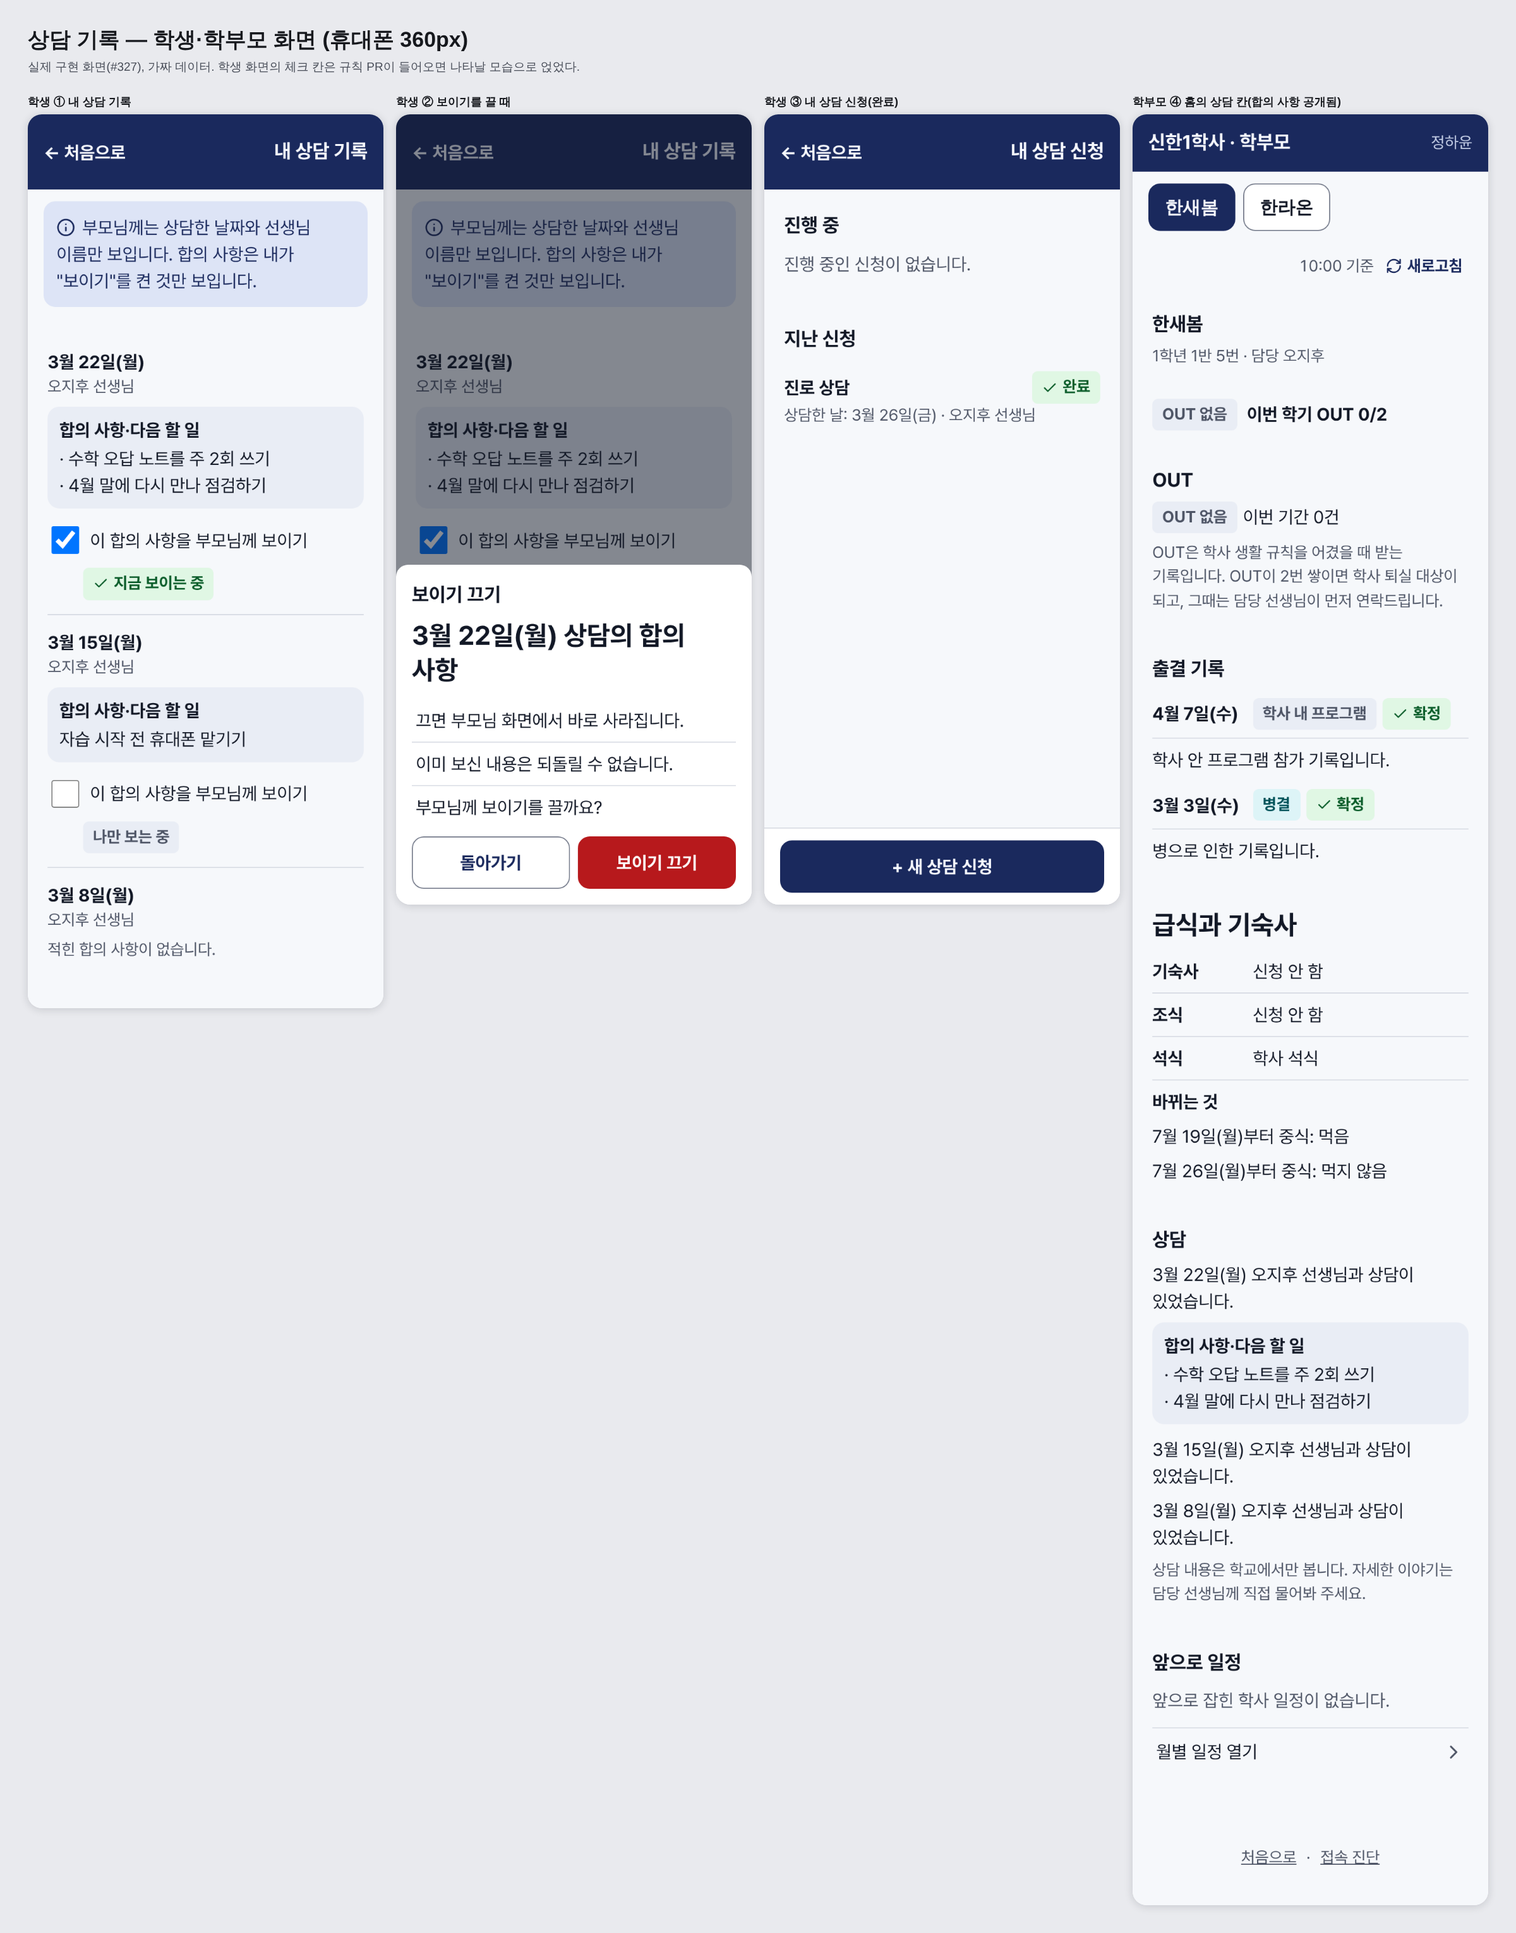
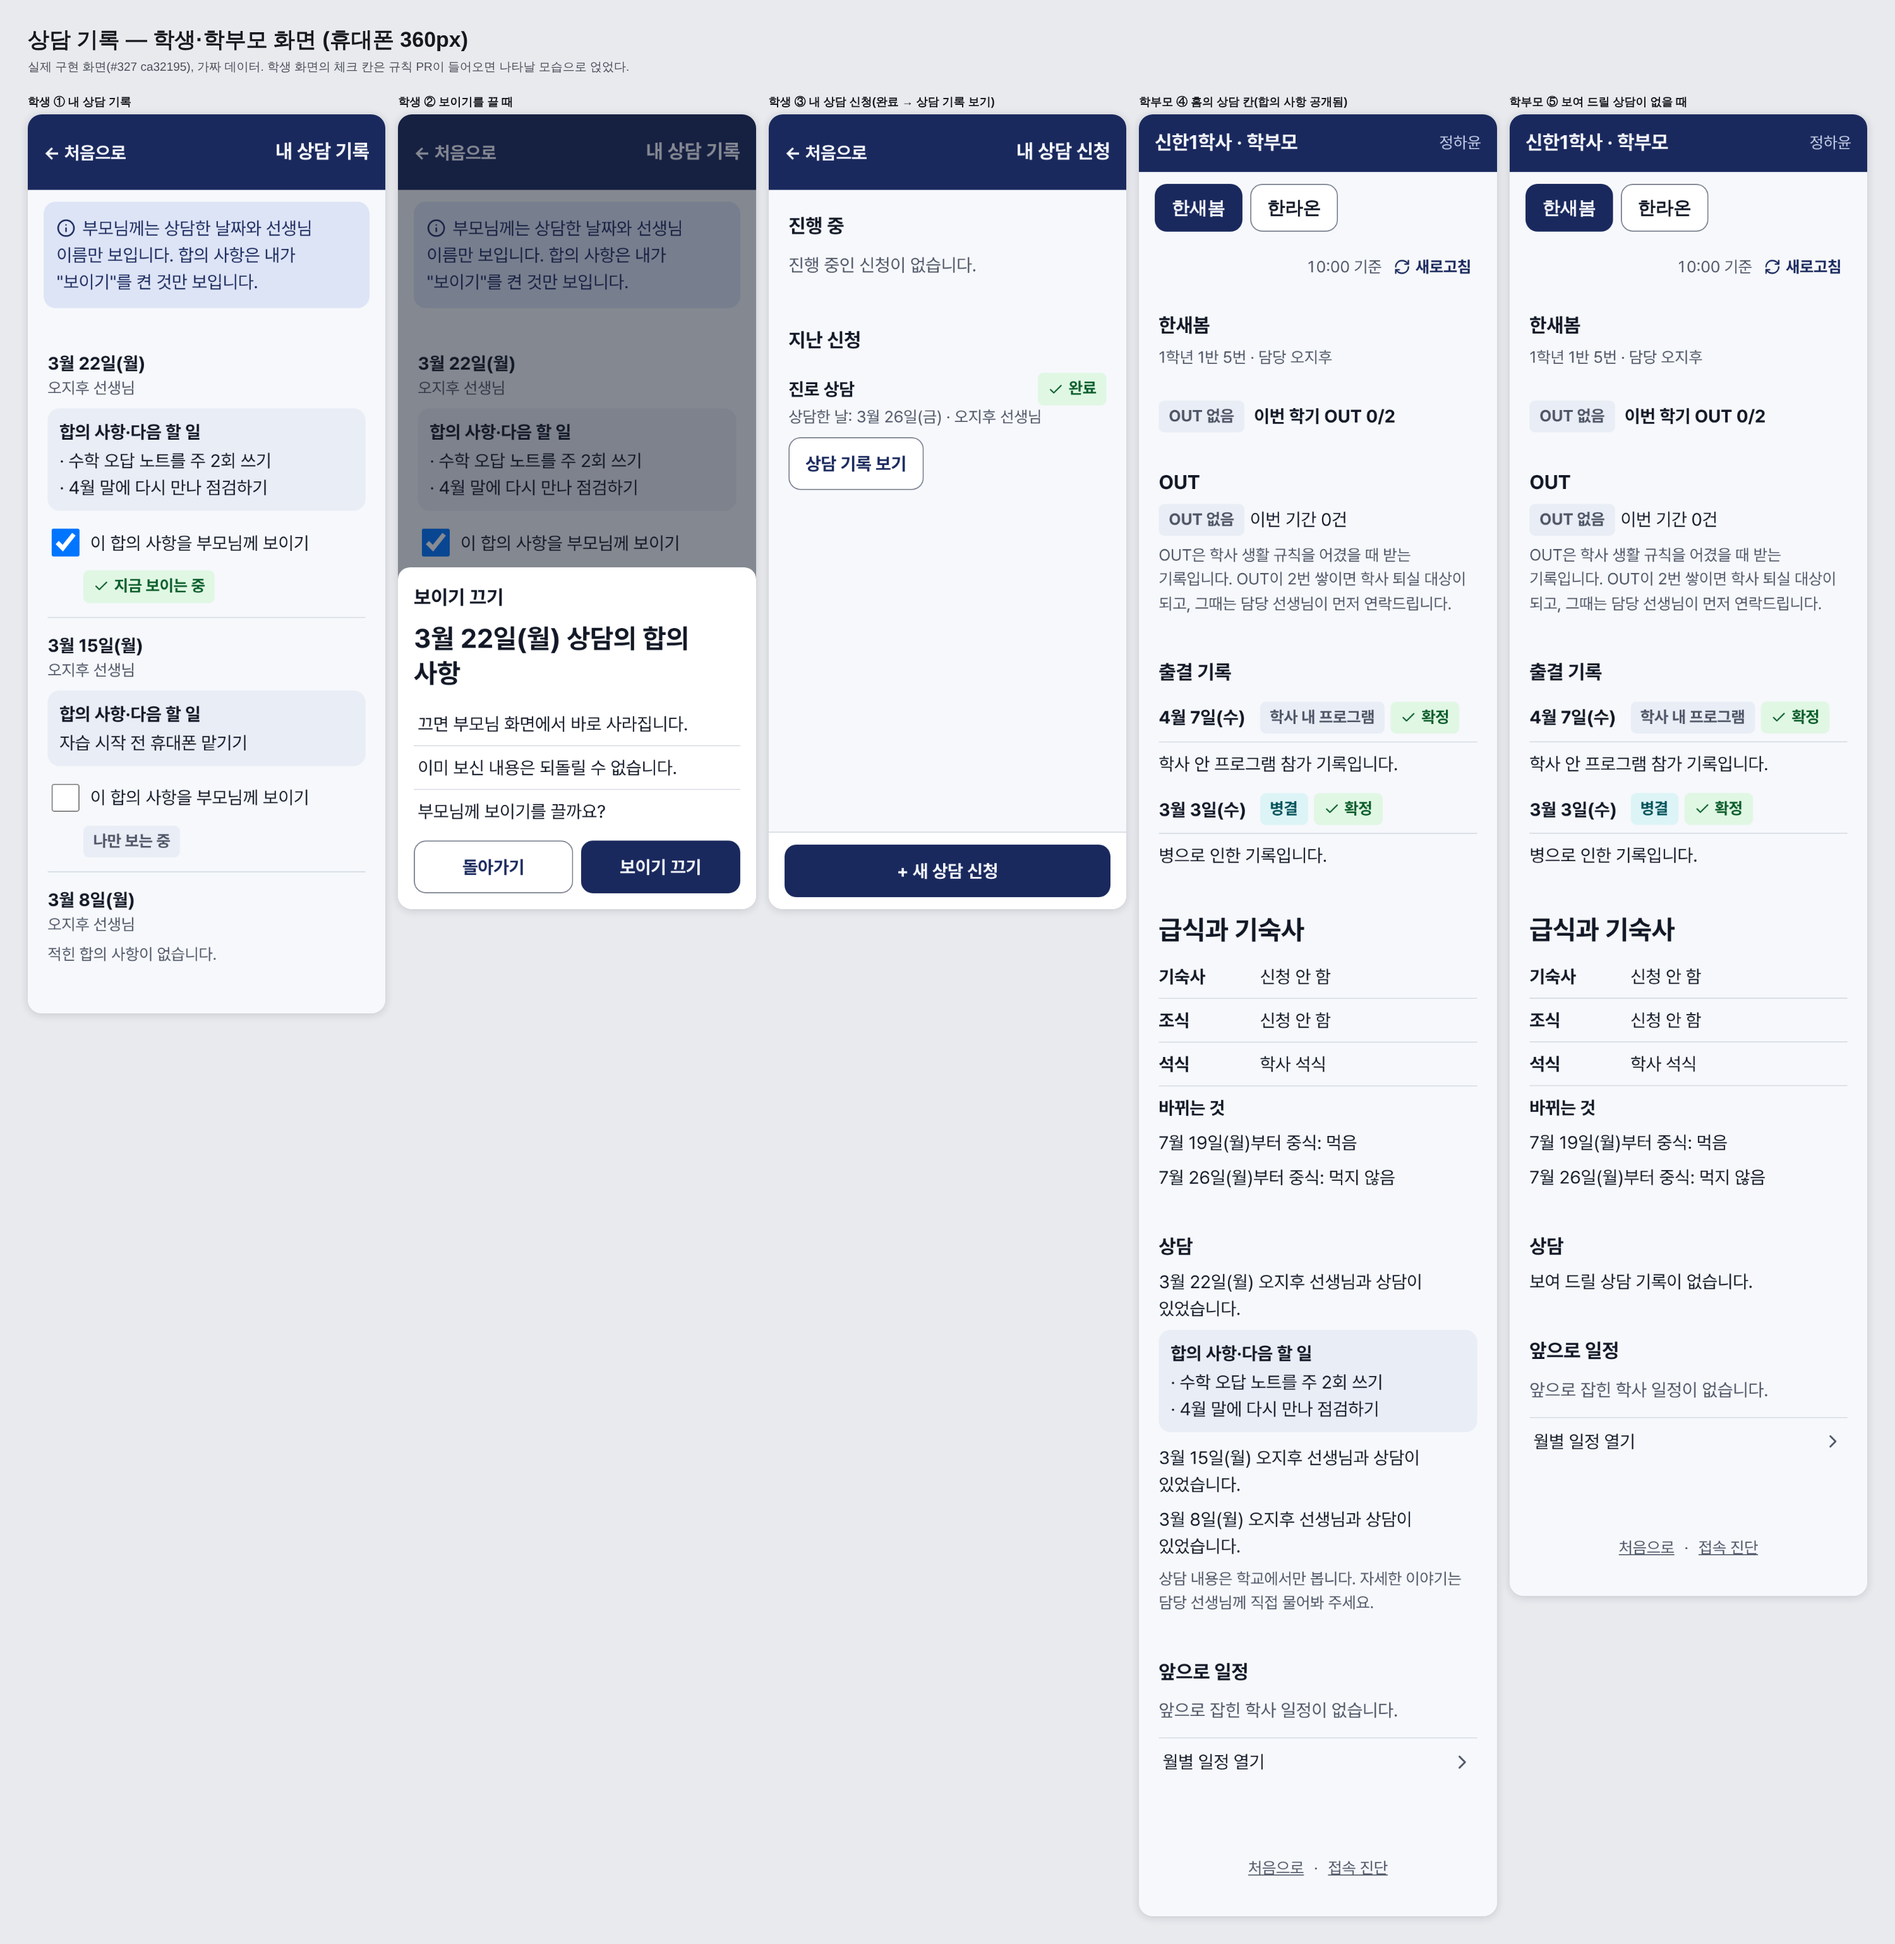
C49-B 상담일지 다시 본 결과(구현 화면 사진 2장 갱신, 고쳐짐·보류 표)
Claude-Session: https://claude.ai/code/session_01By8YaWkfK9cbtnKxFetPty

diff --git a/docs/design/stage6/review/c49b.md b/docs/design/stage6/review/c49b.md
@@ -61,3 +61,27 @@
 - 규칙 PR #323이 들어온 뒤의 진짜 체크 칸(응답에 얹어 본 모습만 보았다).
 - 일지를 취소한 뒤 다시 잇기(relink), 일지 고치기에서의 합의 사항.
 - 학사를 나간 학생의 "고칠 수 없습니다" 화면, 글자 150%·기기 9종.
+
+## 다시 본 결과 (커밋 ca32195, 2026-11-28)
+
+코딩B가 위 목록을 반영한 뒤 구현 화면만 다시 찍었다. 맨 위 "선생님께 보여 드릴 사진" 2장을 이 커밋의 화면으로 바꿨다. **남은 "반드시"가 없다 — 병합해도 된다.**
+
+| # | 무엇 | 결과 |
+| --- | --- | --- |
+| 1 | 두 글 칸이 누구에게 보이는지 | **고쳐짐.** 카드 제목 "상담 내용 (교사만)" + 회색 "교사만 봄", "합의 사항·다음 할 일 (학생에게 보임)" + 주의색 "학생에게 보임". 합의 사항에 글이 있으면 저장 전 확인 시트("합의 사항 48자가 학생에게 보입니다. / 저장한 뒤에는 고칠 수 없고, 고치려면 취소하고 다시 써야 합니다."), 비어 있으면 시트 없이 저장. 고치기 시트에도 "합의 사항 n자는 학생에게 보입니다." 한 문장 |
+| 2 | 참고한 진로 프로필의 내용 요약 | **보류.** C50이 들어온 뒤 후속으로(진로 희망·목표 진학 두 줄 + [진로 프로필 열기]) |
+| 3 | 학부모 상담 빈 상태 | **고쳐짐.** "보여 드릴 상담 기록이 없습니다." 빈 상태에서는 아래 안내 줄이 없다 |
+| 4 | 학생 보이기 체크 칸 | **일부 고쳐짐, 나머지 보류.** [보이기 끄기]가 빨강에서 감색으로 바뀌어 진로 프로필과 같다. `UI.shareCheck`로 바꾸는 것은 C50 병합 뒤 |
+| 5 | "내 상담 신청" 완료 줄 | **고쳐짐.** [상담 기록 보기] 단추 |
+| 6 | 저장 뒤 경고 알림이 단추를 가림 | **고쳐짐.** 알림 대신 목록 위 주의 상자 한 줄로 나온다 |
+| 7 | 빈 "내 상담 기록"의 안내 | **고쳐짐.** 기록이 없으면 안내가 나오지 않는다 |
+
+### 남은 작은 것 (병합을 막지 않음)
+
+| 무엇이 | 제안 |
+| --- | --- |
+| 저장 확인 시트가 글자 수만 알려 준다("합의 사항 48자가…") | 시안처럼 합의 사항 글을 그대로 한 번 더 보여 주면 잘못 적은 것을 그 자리에서 알아챈다. 길면 앞의 두세 줄만 |
+| 2·4의 보류분 | C50 병합 뒤 한 번에 |
+
+신청 → [상담일지 쓰기] → 확인 시트 → 저장 → 신청 "완료" + 일지 연결을 다시 눌러 시트에서 확인했다. 코딩B가 보강한 사진(일지 취소 뒤 다시 잇기, 저장 전 확인 시트, 학사를 나간 학생의 내 상담 기록)도 보았다.
+확인: 10가지 상태에서 가로 넘침·48px 미만 단추·브라우저 오류 없음, 학생·학부모 화면에 상담 내용 표식 없음. 학생 체크 칸은 이번에도 응답에 얹어 본 모습이다(#323 전). 글자 150%·기기 9종은 보지 않았다.
